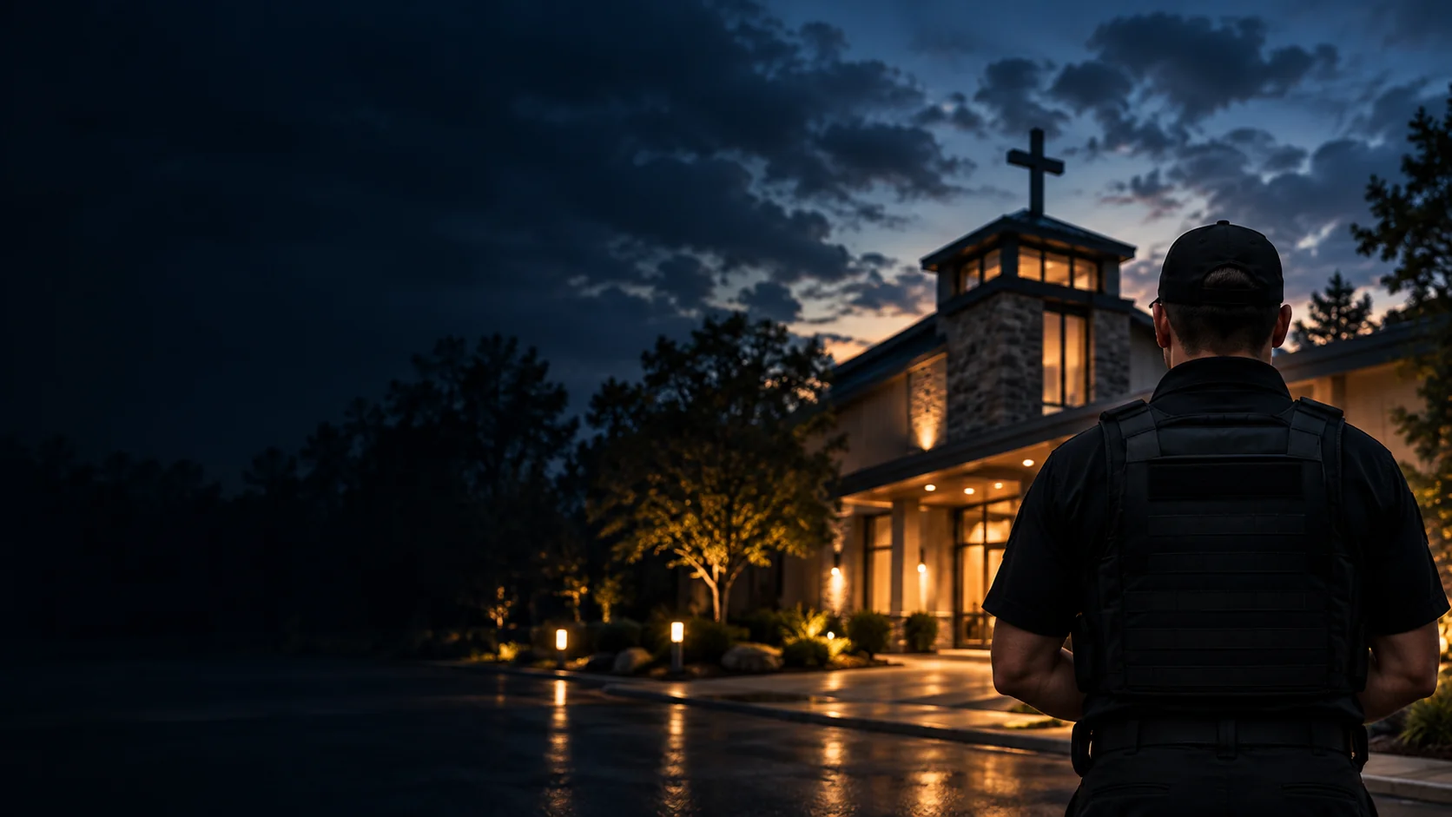
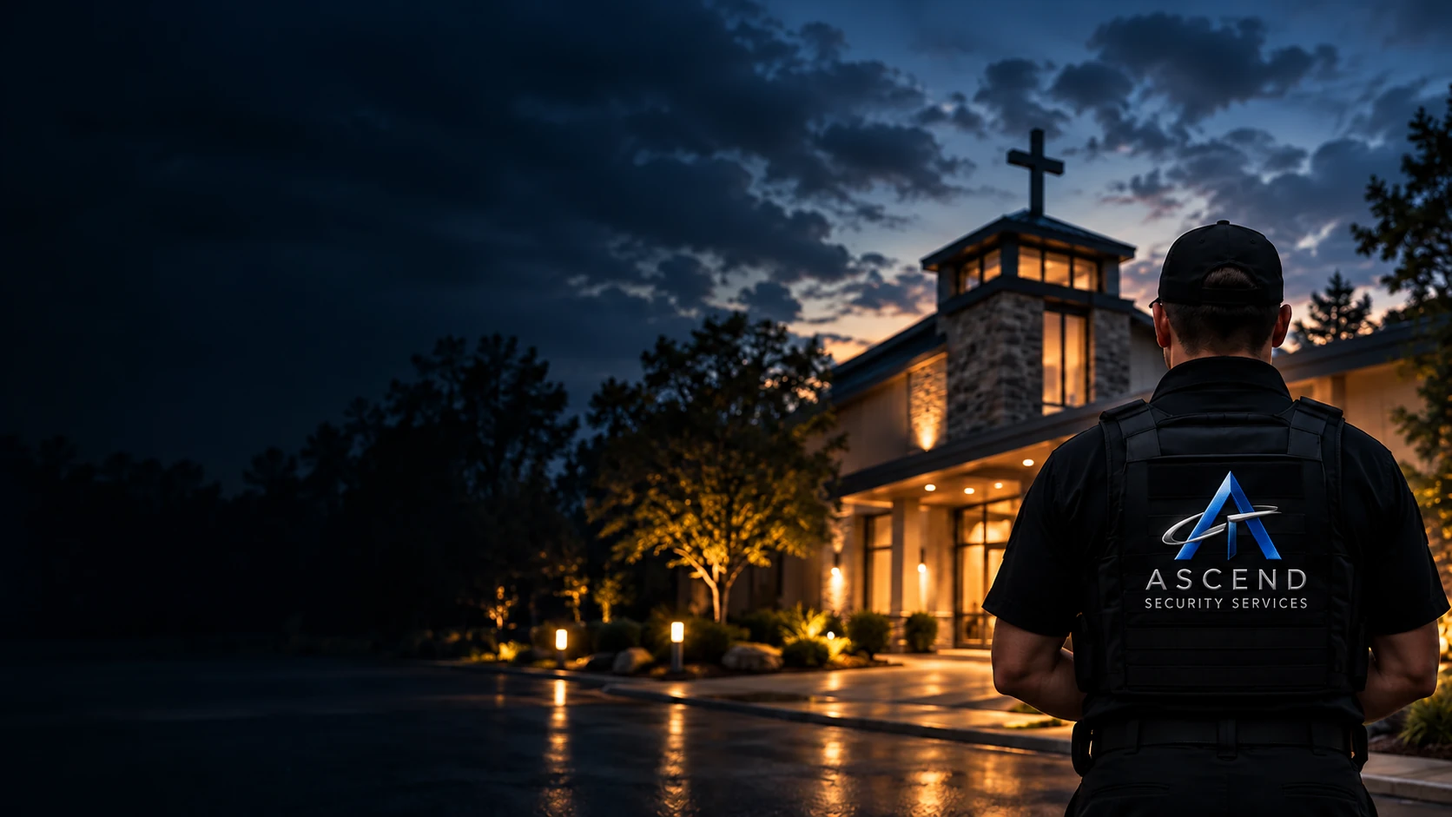
Use textured metallic display emblems and branded security imagery

diff --git a/index.html b/index.html
@@ -1,1 +1,1 @@
-<!DOCTYPE html><html lang="en"><head><meta charset="utf-8"><meta name="viewport" content="width=device-width,initial-scale=1"><title>Ascend Security Services | Professional Protective Operations</title><meta name="description" content="Professional security, protective presence, and risk mitigation across Kentuckiana."><link rel="stylesheet" href="brand-preview.css"><link rel="icon" href="assets/ascend-mark.svg" type="image/svg+xml"></head><body class="security"><a class="skip" href="#main">Skip to content</a><header class="header"><div class="wrap nav"><a class="brand" href="index.html"><img src="assets/ascend-logo.svg" alt="Ascend Security Services" width="260" height="76"></a><button class="menu" aria-expanded="false" aria-controls="navigation">Menu</button><nav class="links" id="navigation" aria-label="Main navigation"><a href="#home">Home</a><a href="#services">Services</a><a href="#approach">Approach</a><a href="#about">About</a><a href="careers.html">Careers</a><a href="#contact">Contact</a><a class="button" href="#contact">Get in touch</a></nav></div></header><main id="main"><section class="hero" id="home" style="--hero:url('assets/security-hero.webp')"><div class="wrap"><div class="hero-copy"><p class="eyebrow">Protect · Preserve · Serve</p><h1>Professional Security for Safer Communities</h1><p>Structured protective operations, risk mitigation, and professional presence for organizations and individuals across Kentuckiana.</p><a class="button" href="#services">Our services</a></div></div></section><div class="principles"><div class="wrap"><span>Visible<br>deterrence</span><span>Disciplined<br>response</span><span>Documented<br>accountability</span></div></div><section class="section" id="services"><div class="wrap"><p class="eyebrow">Security services</p><h2>Protection with Structure.<br>Presence with Purpose.</h2><div class="cards"><article class="card"><svg viewBox="0 0 32 32" aria-hidden="true"><path d="M12 4l3-2 3 3 3 0 1 4 3 2-1 4-3 2-1 4-4 0-3 3-3-2-4 1-2-4-3-1 0-4-2-3 3-3 0-4 4-1z"/><circle cx="14" cy="13" r="4"/></svg><h3>Executive Protection</h3><p>Discreet protective presence, movement coordination, and situational awareness.</p></article><article class="card"><svg viewBox="0 0 32 32" aria-hidden="true"><path d="M3 17v-7l4-6h18l4 6v7M3 11h26M7 17v5M25 17v5M7 14h3M22 14h3"/></svg><h3>Property Patrol</h3><p>Visible deterrence through disciplined presence and structured patrol.</p></article><article class="card"><svg viewBox="0 0 32 32" aria-hidden="true"><path d="M16 2l11 5v8c0 7-11 14-11 14S5 22 5 15V7zM11 15l3 3 7-8"/></svg><h3>Risk Assessment</h3><p>Identify vulnerabilities and develop practical recommendations.</p></article><article class="card"><svg viewBox="0 0 32 32" aria-hidden="true"><path d="M10 22c0-5-5-6-5-12a10 10 0 0120 0c0 6-5 7-5 12M10 22h10M11 26h8M13 30h4"/></svg><h3>Incident Response</h3><p>Professional response supported by structured reporting and accountability.</p></article></div></div></section><section class="image-section" style="--section-image:url('assets/patrol-detail.webp')"><div class="wrap"><div class="image-copy"><p class="eyebrow">Our approach</p><h2>Visible Deterrence.<br>Professional Response.</h2><p>We help organizations create safer environments through disciplined presence, structured patrol, and documented operational protocols.</p><a class="button" href="#approach">Learn more</a></div></div></section><section class="section" id="approach"><div class="wrap"><p class="eyebrow">Operational philosophy</p><h2>Awareness. Discipline. Execution.</h2><p>Security begins with understanding the environment. Our approach emphasizes clear responsibilities, controlled operations, and accountable reporting.</p><div class="steps"><article class="step"><span>01 / ASSESS</span><h3>Understand the setting</h3><p>Review the location, operating needs, and potential exposure.</p></article><article class="step"><span>02 / PLAN</span><h3>Define the approach</h3><p>Establish responsibilities and practical protective measures.</p></article><article class="step"><span>03 / OPERATE</span><h3>Maintain presence</h3><p>Apply structured patrol and situational awareness.</p></article><article class="step"><span>04 / DOCUMENT</span><h3>Keep clear records</h3><p>Support accountability through incident reporting and review.</p></article></div></div></section><section class="section" id="about"><div class="wrap intro"><div><p class="eyebrow">About Ascend Security Services</p><h2>Committed to Professional Protective Operations.</h2><p>Ascend Security Services LLC provides security and risk mitigation services across the Kentuckiana region, with an emphasis on visible deterrence, disciplined response protocols, and documented incident reporting.</p><a class="button" href="careers.html">Explore careers</a></div><div class="intro-mark"><img src="assets/ascend-mark.svg" width="300" height="276" alt="Ascend blue monogram with steel orbit" loading="lazy"></div></div></section><section class="section contact" id="contact"><div class="wrap"><p class="eyebrow">Start a conversation</p><h2>Request a Security Evaluation</h2><p>Tell us about your environment and protective needs so we can discuss a structured approach.</p><a class="button" href="evaluation.html">Request an evaluation</a><p><a class="mail" href="mailto:operations@ascendsecurityservices.com">operations@ascendsecurityservices.com</a></p></div></section><footer class="footer"><div class="wrap"><div>© 2026 Ascend Security Services LLC.<br>Kentuckiana region.</div><div><a href="careers.html">Careers</a><a href="evaluation.html">Security evaluation</a></div></div></footer></main><script src="brand-preview.js" defer></script></body></html>
+<!DOCTYPE html><html lang="en"><head><meta charset="utf-8"><meta name="viewport" content="width=device-width,initial-scale=1"><title>Ascend Security Services | Professional Protective Operations</title><meta name="description" content="Professional security, protective presence, and risk mitigation across Kentuckiana."><link rel="stylesheet" href="brand-preview.css"><link rel="icon" href="assets/ascend-mark.svg" type="image/svg+xml"></head><body class="security"><a class="skip" href="#main">Skip to content</a><header class="header"><div class="wrap nav"><a class="brand" href="index.html"><img src="assets/ascend-display.webp" alt="Ascend Security Services" width="70" height="70"><span class="brand-type"><span class="brand-name">ASCEND</span><span class="brand-entity">SECURITY SERVICES</span></span></a><button class="menu" aria-expanded="false" aria-controls="navigation">Menu</button><nav class="links" id="navigation" aria-label="Main navigation"><a href="#home">Home</a><a href="#services">Services</a><a href="#approach">Approach</a><a href="#about">About</a><a href="careers.html">Careers</a><a href="#contact">Contact</a><a class="button" href="#contact">Get in touch</a></nav></div></header><main id="main"><section class="hero" id="home" style="--hero:url('assets/security-hero.webp')"><div class="wrap"><div class="hero-copy"><p class="eyebrow">Protect · Preserve · Serve</p><h1>Professional Security for Safer Communities</h1><p>Structured protective operations, risk mitigation, and professional presence for organizations and individuals across Kentuckiana.</p><a class="button" href="#services">Our services</a></div></div></section><div class="principles"><div class="wrap"><span>Visible<br>deterrence</span><span>Disciplined<br>response</span><span>Documented<br>accountability</span></div></div><section class="section" id="services"><div class="wrap"><p class="eyebrow">Security services</p><h2>Protection with Structure.<br>Presence with Purpose.</h2><div class="cards"><article class="card"><svg viewBox="0 0 32 32" aria-hidden="true"><path d="M12 4l3-2 3 3 3 0 1 4 3 2-1 4-3 2-1 4-4 0-3 3-3-2-4 1-2-4-3-1 0-4-2-3 3-3 0-4 4-1z"/><circle cx="14" cy="13" r="4"/></svg><h3>Executive Protection</h3><p>Discreet protective presence, movement coordination, and situational awareness.</p></article><article class="card"><svg viewBox="0 0 32 32" aria-hidden="true"><path d="M3 17v-7l4-6h18l4 6v7M3 11h26M7 17v5M25 17v5M7 14h3M22 14h3"/></svg><h3>Property Patrol</h3><p>Visible deterrence through disciplined presence and structured patrol.</p></article><article class="card"><svg viewBox="0 0 32 32" aria-hidden="true"><path d="M16 2l11 5v8c0 7-11 14-11 14S5 22 5 15V7zM11 15l3 3 7-8"/></svg><h3>Risk Assessment</h3><p>Identify vulnerabilities and develop practical recommendations.</p></article><article class="card"><svg viewBox="0 0 32 32" aria-hidden="true"><path d="M10 22c0-5-5-6-5-12a10 10 0 0120 0c0 6-5 7-5 12M10 22h10M11 26h8M13 30h4"/></svg><h3>Incident Response</h3><p>Professional response supported by structured reporting and accountability.</p></article></div></div></section><section class="image-section" style="--section-image:url('assets/patrol-detail.webp')"><div class="wrap"><div class="image-copy"><p class="eyebrow">Our approach</p><h2>Visible Deterrence.<br>Professional Response.</h2><p>We help organizations create safer environments through disciplined presence, structured patrol, and documented operational protocols.</p><a class="button" href="#approach">Learn more</a></div></div></section><section class="section" id="approach"><div class="wrap"><p class="eyebrow">Operational philosophy</p><h2>Awareness. Discipline. Execution.</h2><p>Security begins with understanding the environment. Our approach emphasizes clear responsibilities, controlled operations, and accountable reporting.</p><div class="steps"><article class="step"><span>01 / ASSESS</span><h3>Understand the setting</h3><p>Review the location, operating needs, and potential exposure.</p></article><article class="step"><span>02 / PLAN</span><h3>Define the approach</h3><p>Establish responsibilities and practical protective measures.</p></article><article class="step"><span>03 / OPERATE</span><h3>Maintain presence</h3><p>Apply structured patrol and situational awareness.</p></article><article class="step"><span>04 / DOCUMENT</span><h3>Keep clear records</h3><p>Support accountability through incident reporting and review.</p></article></div></div></section><section class="section" id="about"><div class="wrap intro"><div><p class="eyebrow">About Ascend Security Services</p><h2>Committed to Professional Protective Operations.</h2><p>Ascend Security Services LLC provides security and risk mitigation services across the Kentuckiana region, with an emphasis on visible deterrence, disciplined response protocols, and documented incident reporting.</p><a class="button" href="careers.html">Explore careers</a></div><div class="intro-mark"><img src="assets/ascend-display.webp" width="300" height="276" alt="Ascend blue monogram with steel orbit" loading="lazy"></div></div></section><section class="section contact" id="contact"><div class="wrap"><p class="eyebrow">Start a conversation</p><h2>Request a Security Evaluation</h2><p>Tell us about your environment and protective needs so we can discuss a structured approach.</p><a class="button" href="evaluation.html">Request an evaluation</a><p><a class="mail" href="mailto:operations@ascendsecurityservices.com">operations@ascendsecurityservices.com</a></p></div></section><footer class="footer"><div class="wrap"><div>© 2026 Ascend Security Services LLC.<br>Kentuckiana region.</div><div><a href="careers.html">Careers</a><a href="evaluation.html">Security evaluation</a></div></div></footer></main><script src="brand-preview.js" defer></script></body></html>

diff --git a/brand-preview.css b/brand-preview.css
@@ -1,3 +1,6 @@
 *{box-sizing:border-box}html{scroll-behavior:smooth;scroll-padding-top:100px}body{margin:0;background:#080d12;color:#f4f5f6;font-family:Arial,Helvetica,sans-serif;-webkit-font-smoothing:antialiased}a{color:inherit;text-decoration:none}button,input,textarea{font:inherit}a:focus-visible,button:focus-visible,input:focus-visible,textarea:focus-visible{outline:2px solid #84c1ff;outline-offset:5px}.skip{position:absolute;top:-100px;left:20px;background:white;color:black;padding:12px;z-index:100}.skip:focus{top:12px}.wrap{max-width:1280px;margin:auto;padding:0 48px}.header{border-bottom:1px solid #ffffff20;background:#080d12ee;position:sticky;top:0;z-index:20;backdrop-filter:blur(16px)}.nav{min-height:92px;display:flex;align-items:center;gap:28px;justify-content:space-between}.brand{display:block;flex-shrink:0}.brand img{width:260px;height:76px;display:block}.links{display:flex;align-items:center;gap:26px}.links a{font-size:11px;text-transform:uppercase;letter-spacing:1px}.links a:hover{color:#e7c08a}.button{display:inline-flex;gap:24px;align-items:center;justify-content:center;min-height:46px;border:1px solid #d3b18a;border-radius:3px;padding:14px 22px;text-transform:uppercase;letter-spacing:1.5px;font-size:11px;color:#f0d6b4;background:#05090ccc;transition:background .2s,transform .2s}.button:hover{background:#d3b18a;color:#080d12;transform:translateY(-2px)}.button:after{content:'→';font-size:18px}.links .button:after{content:none}.menu{display:none;border:1px solid #77818b;border-radius:3px;background:transparent;color:white;padding:10px 13px}.hero{min-height:680px;position:relative;display:flex;align-items:center;background-image:linear-gradient(90deg,#060b11 5%,#060b11d9 38%,#060b1122 75%),var(--hero);background-size:cover;background-position:center}.hero:after{content:'';position:absolute;inset:0;background:linear-gradient(0deg,#080d12,transparent 22%);pointer-events:none}.hero .wrap{width:100%;position:relative;z-index:1}.hero-copy{max-width:660px;padding:80px 0 90px}.eyebrow{font-size:10px;letter-spacing:3px;text-transform:uppercase;margin:0 0 25px;color:#d4d8dc}.hero h1{font-weight:500;font-size:clamp(40px,4.8vw,65px);line-height:1.06;letter-spacing:-2px;margin:0 0 26px}.hero p:not(.eyebrow){max-width:590px;font-size:17px;line-height:1.7;color:#d5dadd;margin:0 0 30px}.principles{border-top:1px solid #ffffff12;border-bottom:1px solid #ffffff20}.principles .wrap{display:grid;grid-template-columns:repeat(3,1fr);padding-top:28px;padding-bottom:28px}.principles span{text-align:center;font-size:11px;letter-spacing:2px;text-transform:uppercase;padding:0 20px;border-right:1px solid #ffffff20;line-height:1.7}.principles span:last-child{border:0}.section{padding:85px 0;border-bottom:1px solid #ffffff1c}.section h2,.image-section h2{font-size:clamp(30px,3vw,42px);font-weight:500;line-height:1.15;letter-spacing:-1px;margin:0 0 22px}.section p,.image-section p{font-size:15px;line-height:1.8;color:#b9c2ca;max-width:600px}.intro{display:grid;grid-template-columns:1.05fr 1fr;gap:80px;align-items:center}.intro-mark{display:flex;justify-content:center;align-items:center;min-height:340px;background:radial-gradient(ellipse,#21324666,transparent 65%)}.intro-mark img{width:300px;max-width:80%;height:auto}.cards{display:grid;grid-template-columns:repeat(4,1fr);gap:14px;margin-top:38px}.card{padding:28px 25px;border:1px solid #ffffff20;border-radius:4px;background:linear-gradient(145deg,#10192288,#070c12);min-height:230px}.card svg{width:36px;height:36px;stroke:#d4dce4;fill:none;stroke-width:1.4;margin-bottom:24px}.card h3{font-size:17px;font-weight:500;line-height:1.35;margin:0 0 12px}.card p{font-size:12px;line-height:1.8;margin:0}.image-section{min-height:465px;display:flex;align-items:center;background-image:linear-gradient(90deg,#060b1100,#060b1177 42%,#060b11 78%),var(--section-image);background-size:cover;background-position:center;border-bottom:1px solid #ffffff20}.image-section .wrap{width:100%;display:flex;justify-content:flex-end}.image-copy{width:46%;padding:60px 0}.steps{display:grid;grid-template-columns:repeat(4,1fr);gap:30px;margin-top:45px}.step{border-top:1px solid #c8a577;padding-top:25px}.step span{font-size:11px;color:#d8b991;letter-spacing:2px}.step h3{font-size:19px;font-weight:500}.step p{font-size:13px}.contact{background:linear-gradient(140deg,#152331,#070c12)}.contact-grid{display:grid;grid-template-columns:1fr 1fr;gap:70px}.contact label{display:block;font-size:12px;letter-spacing:1px;margin:0 0 9px}.contact input,.contact textarea{width:100%;border:1px solid #52606a;background:#060b11aa;color:white;padding:13px;margin-bottom:18px;border-radius:3px}.contact textarea{min-height:125px;resize:vertical}.hint{font-size:12px!important;color:#b7c2cb!important}.mail{font-size:18px;border-bottom:1px solid #d4af3777;padding-bottom:8px;display:inline-block}.footer{padding:34px 0;font-size:11px;color:#8e9ba7;line-height:1.8}.footer .wrap{display:flex;justify-content:space-between;gap:30px}.footer a{margin-left:16px}.footer a:hover{text-decoration:underline}.status{min-height:24px}.security .hero-copy{max-width:640px}.security .hero{background-position:55% center}@media(max-width:1050px){.links{gap:14px}.brand img{width:220px}.wrap{padding:0 30px}.hero h1{font-size:52px}.cards{grid-template-columns:repeat(2,1fr)}.intro{gap:35px}}@media(max-width:800px){.nav{min-height:76px;flex-wrap:wrap;gap:0}.brand img{width:225px;height:68px}.menu{display:block}.links{display:none;width:100%;padding:15px 0 25px;flex-direction:column;align-items:stretch;gap:0}.links.open{display:flex}.links a{padding:15px}.hero{min-height:680px;background-position:62% center;background-image:linear-gradient(90deg,#060b11e6,#060b11aa),var(--hero)}.hero-copy{padding:65px 0}.hero h1{font-size:48px}.hero p:not(.eyebrow){font-size:16px}.intro,.contact-grid{grid-template-columns:1fr;gap:30px}.intro-mark{min-height:260px}.intro-mark img{width:240px}.steps{grid-template-columns:repeat(2,1fr)}.image-copy{width:65%}.section{padding:65px 0}.footer .wrap{flex-direction:column}.footer a{margin-left:0;margin-right:18px}}@media(max-width:480px){.wrap{padding:0 24px}.hero h1{font-size:40px;letter-spacing:-1.2px}.hero{min-height:650px}.eyebrow{font-size:9px;letter-spacing:2px}.cards{grid-template-columns:1fr}.card{min-height:0}.principles .wrap{padding:22px 10px}.principles span{font-size:8px;letter-spacing:1px;padding:0 9px}.image-copy{width:100%;padding:60px 0}.image-section{background-image:linear-gradient(90deg,#060b11bb,#060b11dd),var(--section-image)}.steps{gap:20px}.mail{font-size:15px}}@media(prefers-reduced-motion:reduce){html{scroll-behavior:auto}*{transition:none!important}}
 /* Polished emblem finish */
 .brand img{filter:drop-shadow(0 0 3px rgba(191,220,250,.16))}.intro-mark img,.portfolio-card img{filter:drop-shadow(0 0 14px rgba(167,199,232,.19))}.flavor .brand img,.flavor .intro-mark img{filter:drop-shadow(0 0 9px rgba(225,159,75,.2))}
+
+/* Textured metallic display emblems */
+.brand{display:flex;align-items:center;gap:12px;min-width:245px}.brand img{width:70px;height:70px;object-fit:contain;filter:none}.brand-name{display:block;color:#e1e5e9;font-size:24px;font-weight:400;letter-spacing:6px;line-height:1.1}.brand-entity{display:block;color:#bdc8d1;font-size:8px;letter-spacing:2.7px;margin-top:8px;white-space:nowrap}.intro-mark img,.portfolio-card img{filter:none;object-fit:contain}.flavor .brand-name,.flavor .brand-entity{color:#e4c7a1}@media(max-width:1050px){.brand{min-width:220px}.brand img{width:58px;height:58px}.brand-name{font-size:21px;letter-spacing:5px}.brand-entity{font-size:7px;letter-spacing:2.2px}}

diff --git a/careers.html b/careers.html
@@ -1,1 +1,1 @@
-<!DOCTYPE html><html lang="en"><head><meta charset="utf-8"><meta name="viewport" content="width=device-width,initial-scale=1"><title>Ascend Security Services | Professional Protective Operations</title><meta name="description" content="Professional security, protective presence, and risk mitigation across Kentuckiana."><link rel="stylesheet" href="brand-preview.css"><link rel="icon" href="assets/ascend-mark.svg" type="image/svg+xml"></head><body class="security"><a class="skip" href="#main">Skip to content</a><header class="header"><div class="wrap nav"><a class="brand" href="index.html"><img src="assets/ascend-logo.svg" alt="Ascend Security Services" width="260" height="76"></a><button class="menu" aria-expanded="false" aria-controls="navigation">Menu</button><nav class="links" id="navigation" aria-label="Main navigation"><a href="index.html#home">Home</a><a href="index.html#services">Services</a><a href="index.html#approach">Approach</a><a href="index.html#about">About</a><a href="careers.html">Careers</a><a href="index.html#contact">Contact</a><a class="button" href="index.html#contact">Get in touch</a></nav></div></header><main id="main"><section class="section contact"><div class="wrap contact-grid"><div><p class="eyebrow">Ascend Security Services</p><h1>Careers at Ascend</h1><p>Tell us about your experience and the position you are interested in.</p><a class="mail" href="mailto:operations@ascendsecurityservices.com">operations@ascendsecurityservices.com</a><h2>Roles</h2><p>Security Officer — patrol, presence, reporting, and access control.</p><p>Executive Protection Agent — movement coordination, awareness, and protective presence.</p></div><form id="inquiry-form"><label for="name">Full name</label><input id="name" name="name" autocomplete="name" required maxlength="100"><label for="organization">Position of interest</label><input id="organization" name="organization" required maxlength="150"><label for="email">Email</label><input id="email" name="email" type="email" autocomplete="email" required maxlength="254"><label for="message">Experience and background</label><textarea id="message" name="message" required maxlength="4000"></textarea><button class="button" type="submit">Prepare email</button><p class="hint">Opens a draft in your email application. Send it there to complete your request. This website does not collect or store form data.</p><p class="hint status" role="status"></p></form></div></section></main><script src="brand-preview.js" defer></script></body></html>
+<!DOCTYPE html><html lang="en"><head><meta charset="utf-8"><meta name="viewport" content="width=device-width,initial-scale=1"><title>Ascend Security Services | Professional Protective Operations</title><meta name="description" content="Professional security, protective presence, and risk mitigation across Kentuckiana."><link rel="stylesheet" href="brand-preview.css"><link rel="icon" href="assets/ascend-mark.svg" type="image/svg+xml"></head><body class="security"><a class="skip" href="#main">Skip to content</a><header class="header"><div class="wrap nav"><a class="brand" href="index.html"><img src="assets/ascend-display.webp" alt="Ascend Security Services" width="70" height="70"><span class="brand-type"><span class="brand-name">ASCEND</span><span class="brand-entity">SECURITY SERVICES</span></span></a><button class="menu" aria-expanded="false" aria-controls="navigation">Menu</button><nav class="links" id="navigation" aria-label="Main navigation"><a href="index.html#home">Home</a><a href="index.html#services">Services</a><a href="index.html#approach">Approach</a><a href="index.html#about">About</a><a href="careers.html">Careers</a><a href="index.html#contact">Contact</a><a class="button" href="index.html#contact">Get in touch</a></nav></div></header><main id="main"><section class="section contact"><div class="wrap contact-grid"><div><p class="eyebrow">Ascend Security Services</p><h1>Careers at Ascend</h1><p>Tell us about your experience and the position you are interested in.</p><a class="mail" href="mailto:operations@ascendsecurityservices.com">operations@ascendsecurityservices.com</a><h2>Roles</h2><p>Security Officer — patrol, presence, reporting, and access control.</p><p>Executive Protection Agent — movement coordination, awareness, and protective presence.</p></div><form id="inquiry-form"><label for="name">Full name</label><input id="name" name="name" autocomplete="name" required maxlength="100"><label for="organization">Position of interest</label><input id="organization" name="organization" required maxlength="150"><label for="email">Email</label><input id="email" name="email" type="email" autocomplete="email" required maxlength="254"><label for="message">Experience and background</label><textarea id="message" name="message" required maxlength="4000"></textarea><button class="button" type="submit">Prepare email</button><p class="hint">Opens a draft in your email application. Send it there to complete your request. This website does not collect or store form data.</p><p class="hint status" role="status"></p></form></div></section></main><script src="brand-preview.js" defer></script></body></html>

diff --git a/evaluation.html b/evaluation.html
@@ -1,1 +1,1 @@
-<!DOCTYPE html><html lang="en"><head><meta charset="utf-8"><meta name="viewport" content="width=device-width,initial-scale=1"><title>Ascend Security Services | Professional Protective Operations</title><meta name="description" content="Professional security, protective presence, and risk mitigation across Kentuckiana."><link rel="stylesheet" href="brand-preview.css"><link rel="icon" href="assets/ascend-mark.svg" type="image/svg+xml"></head><body class="security"><a class="skip" href="#main">Skip to content</a><header class="header"><div class="wrap nav"><a class="brand" href="index.html"><img src="assets/ascend-logo.svg" alt="Ascend Security Services" width="260" height="76"></a><button class="menu" aria-expanded="false" aria-controls="navigation">Menu</button><nav class="links" id="navigation" aria-label="Main navigation"><a href="index.html#home">Home</a><a href="index.html#services">Services</a><a href="index.html#approach">Approach</a><a href="index.html#about">About</a><a href="careers.html">Careers</a><a href="index.html#contact">Contact</a><a class="button" href="index.html#contact">Get in touch</a></nav></div></header><main id="main"><section class="section contact"><div class="wrap contact-grid"><div><p class="eyebrow">Ascend Security Services</p><h1>Request a Security Evaluation</h1><p>Describe your environment and protective needs.</p><a class="mail" href="mailto:operations@ascendsecurityservices.com">operations@ascendsecurityservices.com</a></div><form id="inquiry-form"><label for="name">Full name</label><input id="name" name="name" autocomplete="name" required maxlength="100"><label for="organization">Organization</label><input id="organization" name="organization" required maxlength="150"><label for="email">Email</label><input id="email" name="email" type="email" autocomplete="email" required maxlength="254"><label for="message">Describe your needs</label><textarea id="message" name="message" required maxlength="4000"></textarea><button class="button" type="submit">Prepare email</button><p class="hint">Opens a draft in your email application. Send it there to complete your request. This website does not collect or store form data.</p><p class="hint status" role="status"></p></form></div></section></main><script src="brand-preview.js" defer></script></body></html>
+<!DOCTYPE html><html lang="en"><head><meta charset="utf-8"><meta name="viewport" content="width=device-width,initial-scale=1"><title>Ascend Security Services | Professional Protective Operations</title><meta name="description" content="Professional security, protective presence, and risk mitigation across Kentuckiana."><link rel="stylesheet" href="brand-preview.css"><link rel="icon" href="assets/ascend-mark.svg" type="image/svg+xml"></head><body class="security"><a class="skip" href="#main">Skip to content</a><header class="header"><div class="wrap nav"><a class="brand" href="index.html"><img src="assets/ascend-display.webp" alt="Ascend Security Services" width="70" height="70"><span class="brand-type"><span class="brand-name">ASCEND</span><span class="brand-entity">SECURITY SERVICES</span></span></a><button class="menu" aria-expanded="false" aria-controls="navigation">Menu</button><nav class="links" id="navigation" aria-label="Main navigation"><a href="index.html#home">Home</a><a href="index.html#services">Services</a><a href="index.html#approach">Approach</a><a href="index.html#about">About</a><a href="careers.html">Careers</a><a href="index.html#contact">Contact</a><a class="button" href="index.html#contact">Get in touch</a></nav></div></header><main id="main"><section class="section contact"><div class="wrap contact-grid"><div><p class="eyebrow">Ascend Security Services</p><h1>Request a Security Evaluation</h1><p>Describe your environment and protective needs.</p><a class="mail" href="mailto:operations@ascendsecurityservices.com">operations@ascendsecurityservices.com</a></div><form id="inquiry-form"><label for="name">Full name</label><input id="name" name="name" autocomplete="name" required maxlength="100"><label for="organization">Organization</label><input id="organization" name="organization" required maxlength="150"><label for="email">Email</label><input id="email" name="email" type="email" autocomplete="email" required maxlength="254"><label for="message">Describe your needs</label><textarea id="message" name="message" required maxlength="4000"></textarea><button class="button" type="submit">Prepare email</button><p class="hint">Opens a draft in your email application. Send it there to complete your request. This website does not collect or store form data.</p><p class="hint status" role="status"></p></form></div></section></main><script src="brand-preview.js" defer></script></body></html>
